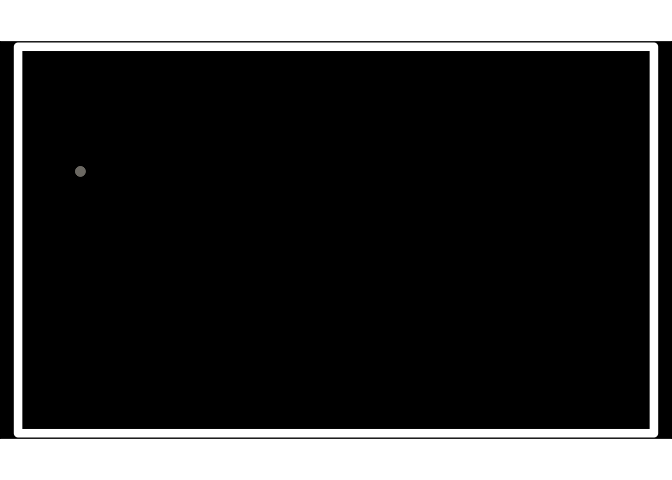
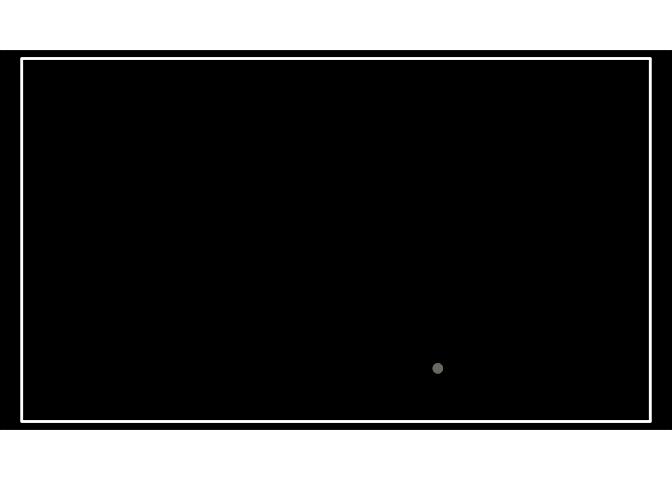
snake it

Changed region(s): [[0.0, 0.0625, 1.0, 0.9375], [0.625, 0.75, 0.6562, 0.7812], [0.0938, 0.3438, 0.125, 0.375]]

diff --git a/README.md b/README.md
@@ -9,35 +9,35 @@
 Make a space
 
 ``` r
-space <- Space$new(nrows = 30, ncol=50)
+space <- Space$new(nrows = 40, ncol=70)
 ```
 
 Start a Snake!
 
 ``` r
 space$new_snake()
-space$show() +snake_palette("E")
+space$show(linewidth=1) + snake_palette("E")
 ```
 
-![](README_files/figure-gfm/unnamed-chunk-4-1.png)<!-- -->
+<img src="README_files/figure-gfm/unnamed-chunk-4-1.png" width="100%" />
 
 extend the head in a random direction, as long as the space is available
 
 ``` r
 space$move_head()
-space$show()
+space$show(linewidth=1) + snake_palette("E")
 ```
 
-![](README_files/figure-gfm/unnamed-chunk-5-1.png)<!-- -->
+<img src="README_files/figure-gfm/unnamed-chunk-5-1.png" width="100%" />
 
 Grow the snake until it’s trapped
 
 ``` r
 space$grow_snake()
-space$show()
+space$show(linewidth=1) + snake_palette("E")
 ```
 
-![](README_files/figure-gfm/unnamed-chunk-6-1.png)<!-- -->
+<img src="README_files/figure-gfm/unnamed-chunk-6-1.png" width="100%" />
 
 Make another one… and one more The longer the snake, the brighest it
 gets
@@ -45,18 +45,34 @@ gets
 ``` r
 space$new_snake()
 space$grow_snake()
-space$show()
+space$show(linewidth=1) + snake_palette("E")
 ```
 
-![](README_files/figure-gfm/unnamed-chunk-7-1.png)<!-- -->
+<img src="README_files/figure-gfm/unnamed-chunk-7-1.png" width="100%" />
 
 Fill up the whole space
 
 ``` r
 space$fill_space()
-space$show() + snake_palette("E")
+space$show(linewidth=1) + snake_palette("E")
 ```
 
-![](README_files/figure-gfm/unnamed-chunk-8-1.png)<!-- -->
+<img src="README_files/figure-gfm/unnamed-chunk-8-1.png" width="100%" />
 
 So pretty!
+
+``` r
+space$fill_space()
+space$show(linewidth=3) + snake_palette("E")
+```
+
+<img src="README_files/figure-gfm/unnamed-chunk-9-1.png" width="100%" />
+
+``` r
+space <- Space$new(50,90)
+space$fill_space()
+space$show(linewidth=1,
+           dotsize=2) + snake_palette("B")
+```
+
+<img src="README_files/figure-gfm/unnamed-chunk-10-1.png" width="100%" />
